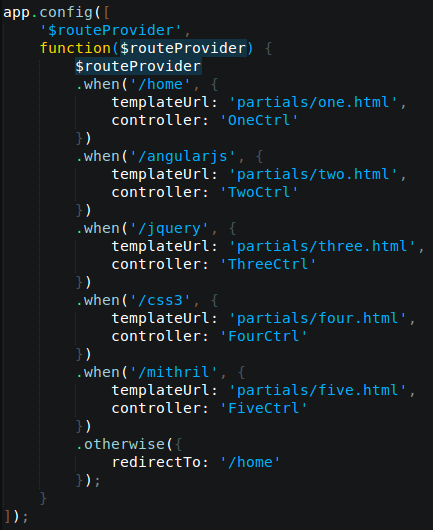
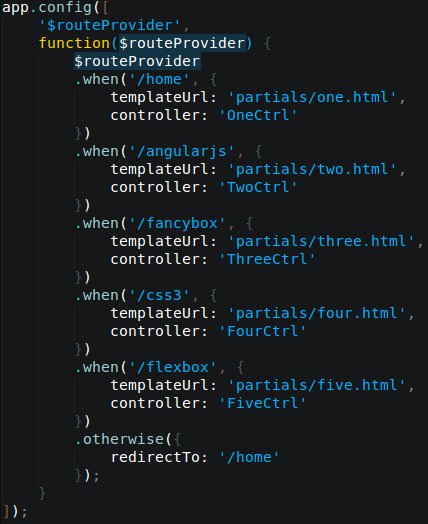
css animations

diff --git a/css/main.css b/css/main.css
@@ -204,8 +204,8 @@ h1 {
 }
 
 .code-snippet {
-    margin-top: 4px;
     display: inline-block;
+    vertical-align:text-bottom;
 }
 
 .code-sentence {
@@ -220,6 +220,10 @@ h1 {
     font-size: 24px;
     line-height: 1.5;
     padding: 179px 0;
+}
+
+.image-align-center {
+    text-align: center;
 }
 
 /*=====  Fancybox  =====*/
@@ -249,62 +253,49 @@ h1 {
 
 .gradient-background p {
     text-align: center;
-    padding: 100px 0;
+    padding: 120.5px 0;
     font-size: 40px;
 }
 
-.animation-box {
+.box-container {
+    padding: 10px 0;
+}
+
+#box-1 {
     height: 200px;
-    width: 200px;
-    position: relative;
+    width: 100%;
+    border-radius: 10px;
+    background-color: #88A825;
+    -webkit-animation: colorchange 10s infinite;
+    animation: colorchange 10s infinite;
+
 }
 
-.box-container, .animation-boxes {
-    position: relative;
+@-webkit-keyframes colorchange {
+    0%   {background-color: #88A825;}
+    25%  {background-color: #35203B;}
+    50%  {background-color: #911146;}
+    75%  {background-color: #CF4A30;}
 }
 
-#box-1 {
-    position: absolute;
+@keyframes colorchange {
+    0%   {background-color: #88A825;}
+    25%  {background-color: #35203B;}
+    50%  {background-color: #911146;}
+    75%  {background-color: #CF4A30;}
 }
-
-#box-1 {
-    background-color: blue;
-    /*-webkit-animation:movingbox 5s infinite;
-    animation:movingbox 5s infinite;*/
-}
-
-#box-2 {
-    background-color: green;
-}
-
-#box-3 {
-    background-color: red;
-}
-
-#box-4 {
-    background-color: purple;
-}
-
-/*@-webkit-keyframes movingbox {
-  0%{left:0%;}
-  50%{left:100%;}
-  100%{left:0%;}
-}
-
-@keyframes movingbox {
-  0%{left:0%;}
-  50%{left:100%;}
-  100%{left:0%;}
-}*/
 
 /*=====  Flexbox  =====*/
 
-.flexible-boxes-container {
+.flexible-boxes-container, .flexible-area-container {
     padding: 10px 0;
     display: -webkit-box;
     display: -ms-flexbox;
     display: -webkit-flex;
     display: flex;
+}
+
+.flexible-boxes-container {
     -webkit-align-items: center;
     align-items: center;
     -webkit-justify-content: center;
@@ -320,7 +311,29 @@ h1 {
     width: 280px;
     height: 280px;
     border-radius: 10px;
-    background-color: #000;
+}
+
+.flexible-area {
+    margin: 10px;
+    width: 280px;
+    height: 280px;
+    border-radius: 10px;
+}
+
+.green {
+    background-color: #88A825;
+}
+
+.purple {
+    background-color: #35203B;
+}
+
+.pink {
+    background-color: #911146;
+}
+
+.orange {
+    background-color: #CF4A30;
 }
 
 /*==========  Footer  ==========*/
@@ -481,6 +494,10 @@ footer {
 
     /*=====  Home  =====*/
 
+    .language-container {
+        padding: 50px 0;
+    }
+
     .language-column a {
         font-size: 40px;
     }
@@ -489,13 +506,29 @@ footer {
         width: 100%;
     }
 
+    .language-column div {
+        padding: 50px 0;
+    }
+
+
+    /*=====  Fancybox  =====*/
+
+    .top {
+        margin-top: 0;
+    }
+
     /*=====  Footer  =====*/
 
     footer {
         text-align: center;
     }
 
+    .social-networking-links a {
+        font-size: 20px;
+    }
+
     .footer-tag {
+        padding-top: 13px;
         display: block;
         float: none;
         font-size: 12px;
@@ -503,6 +536,7 @@ footer {
 
     .footer-tag a {
         font-size: 12px;
+        padding-right: 4px;
     }
 }
 

diff --git a/partials/five.html b/partials/five.html
@@ -7,40 +7,85 @@
     </p>
 </div>
 <div class="flexible-boxes-container max-width">
-    <div id="flexible-box-1" class="flexible-boxes">
+    <div class="flexible-boxes green">
 
     </div>
-    <div id="flexible-box-2" class="flexible-boxes">
+    <div class="flexible-boxes purple">
 
     </div>
-    <div id="flexible-box-3" class="flexible-boxes">
+    <div class="flexible-boxes pink">
 
     </div>
-    <div id="flexible-box-4" class="flexible-boxes">
+    <div class="flexible-boxes orange">
 
     </div>
-    <div id="flexible-box-5" class="flexible-boxes">
+    <div class="flexible-boxes pink">
 
     </div>
-    <div id="flexible-box-6" class="flexible-boxes">
+    <div class="flexible-boxes orange">
 
     </div>
-    <div id="flexible-box-7" class="flexible-boxes">
+    <div class="flexible-boxes green">
 
     </div>
-    <div id="flexible-box-8" class="flexible-boxes">
+    <div class="flexible-boxes purple">
 
     </div>
-    <div id="flexible-box-9" class="flexible-boxes">
+    <div class="flexible-boxes orange">
 
     </div>
-    <div id="flexible-box-10" class="flexible-boxes">
+    <div class="flexible-boxes pink">
 
     </div>
-    <div id="flexible-box-11" class="flexible-boxes">
+    <div class="flexible-boxes purple">
 
     </div>
-    <div id="flexible-box-12" class="flexible-boxes">
+    <div class="flexible-boxes green">
+
+    </div>
+</div>
+
+<div class="intro-sentence">
+    <p>
+        Flexbox also has relative sizing abilities
+    </p>
+</div>
+
+<div class="flexible-area-container max-width">
+    <div class="flexible-area green">
+
+    </div>
+    <div class="flexible-area purple">
+
+    </div>
+    <div class="flexible-area pink">
+
+    </div>
+    <div class="flexible-area orange">
+
+    </div>
+    <div class="flexible-area pink">
+
+    </div>
+    <div class="flexible-area orange">
+
+    </div>
+    <div class="flexible-area green">
+
+    </div>
+    <div class="flexible-area purple">
+
+    </div>
+    <div class="flexible-area orange">
+
+    </div>
+    <div class="flexible-area pink">
+
+    </div>
+    <div class="flexible-area purple">
+
+    </div>
+    <div class="flexible-area green">
 
     </div>
 </div>

diff --git a/partials/four.html b/partials/four.html
@@ -11,6 +11,11 @@
         With CSS3 we can make gradient transitions
     </p>
 </div>
+<div class="intro-sentence">
+    <p>
+        We can also setup animations
+    </p>
+</div>
 <div class="animation-boxes max-width">
     <div class="box-container">
         <div class="animation-box" id="box-1"></div>

diff --git a/partials/one.html b/partials/one.html
@@ -6,7 +6,7 @@
         We can do a lot with HTML, CSS3, and JavaScript
     </p>
 </div>
-<div class="max-width">
+<div class="max-width language-container">
     <div class="language-column left">
         <div>
             <a href="https://angularjs.org/" target="_blank">AngularJS</a>

diff --git a/partials/two.html b/partials/two.html
@@ -33,3 +33,11 @@
         </p>
     </div>
 </div>
+<div class="intro-sentence">
+    <p>
+        This is how we configure the navigation
+    </p>
+</div>
+<div class="max-width image-align-center">
+    <img class="code-snippet" src="assets/images/routing-2.png">
+</div>
